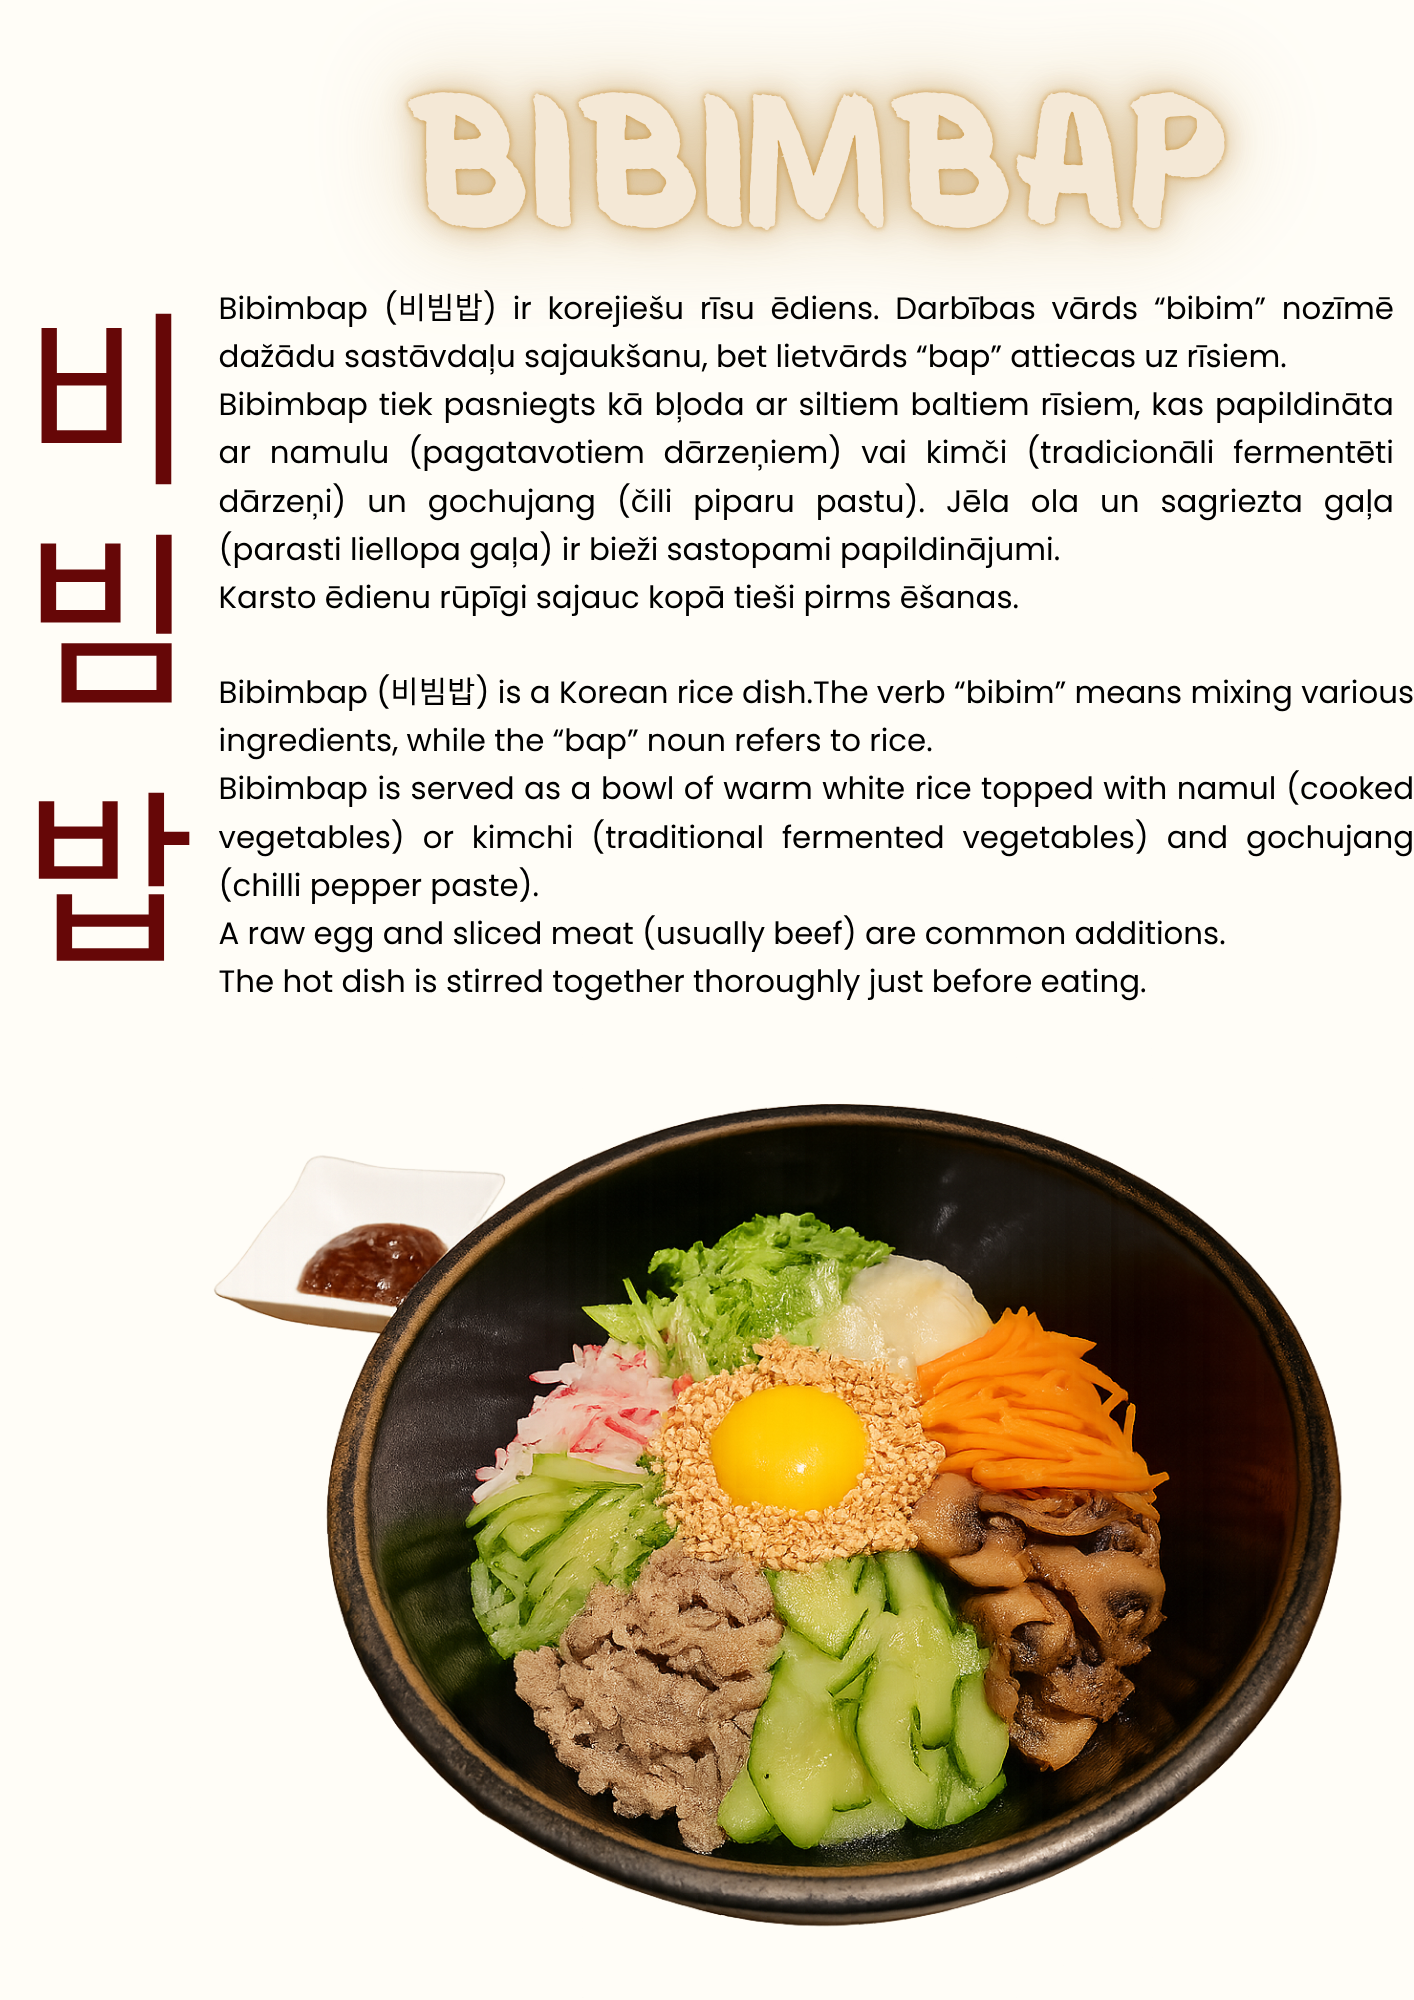
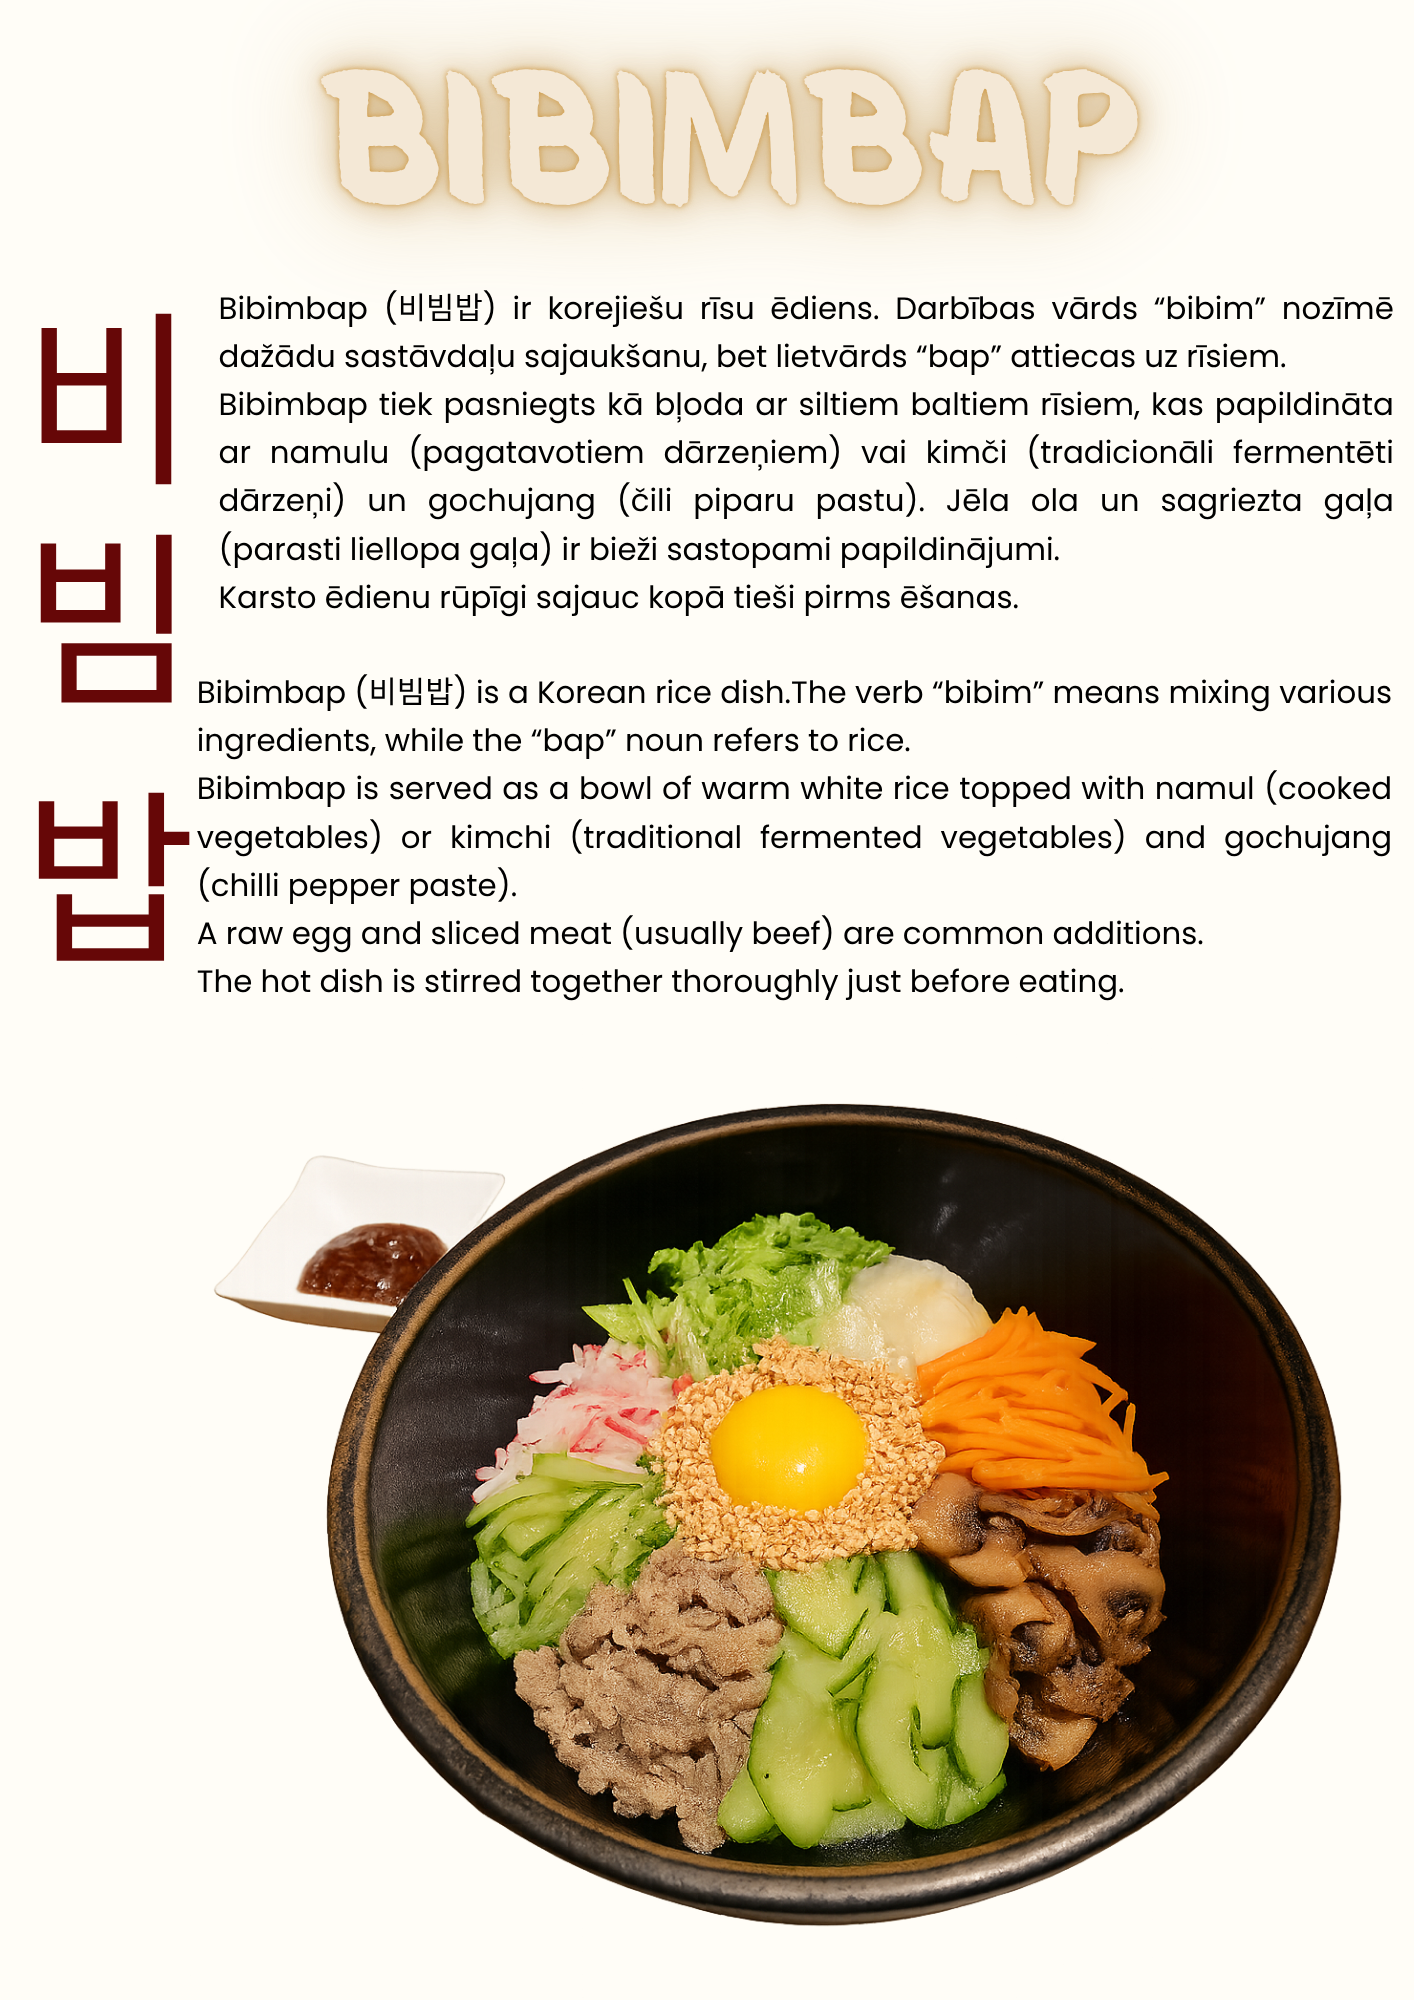
upd

diff --git a/index.html b/index.html
@@ -48,7 +48,7 @@
   <!--<img class="menu-image" src="temp.png" alt="Menu Page 9">
   <img class="menu-image" src="temp1.png" alt="Menu Page 10">-->
   <img class="menu-image" src="13.png" alt="Menu Page 13">
-  <img class="menu-image" src="14.png" alt="Menu Page 14"
+  <img class="menu-image" src="14.png" alt="Menu Page 14">
   <img class="menu-image" src="16.png" alt="Menu Page 16">
   <img class="menu-image" src="17.png" alt="Menu Page 17">
   <img class="menu-image" src="18.png" alt="Menu Page 18">
